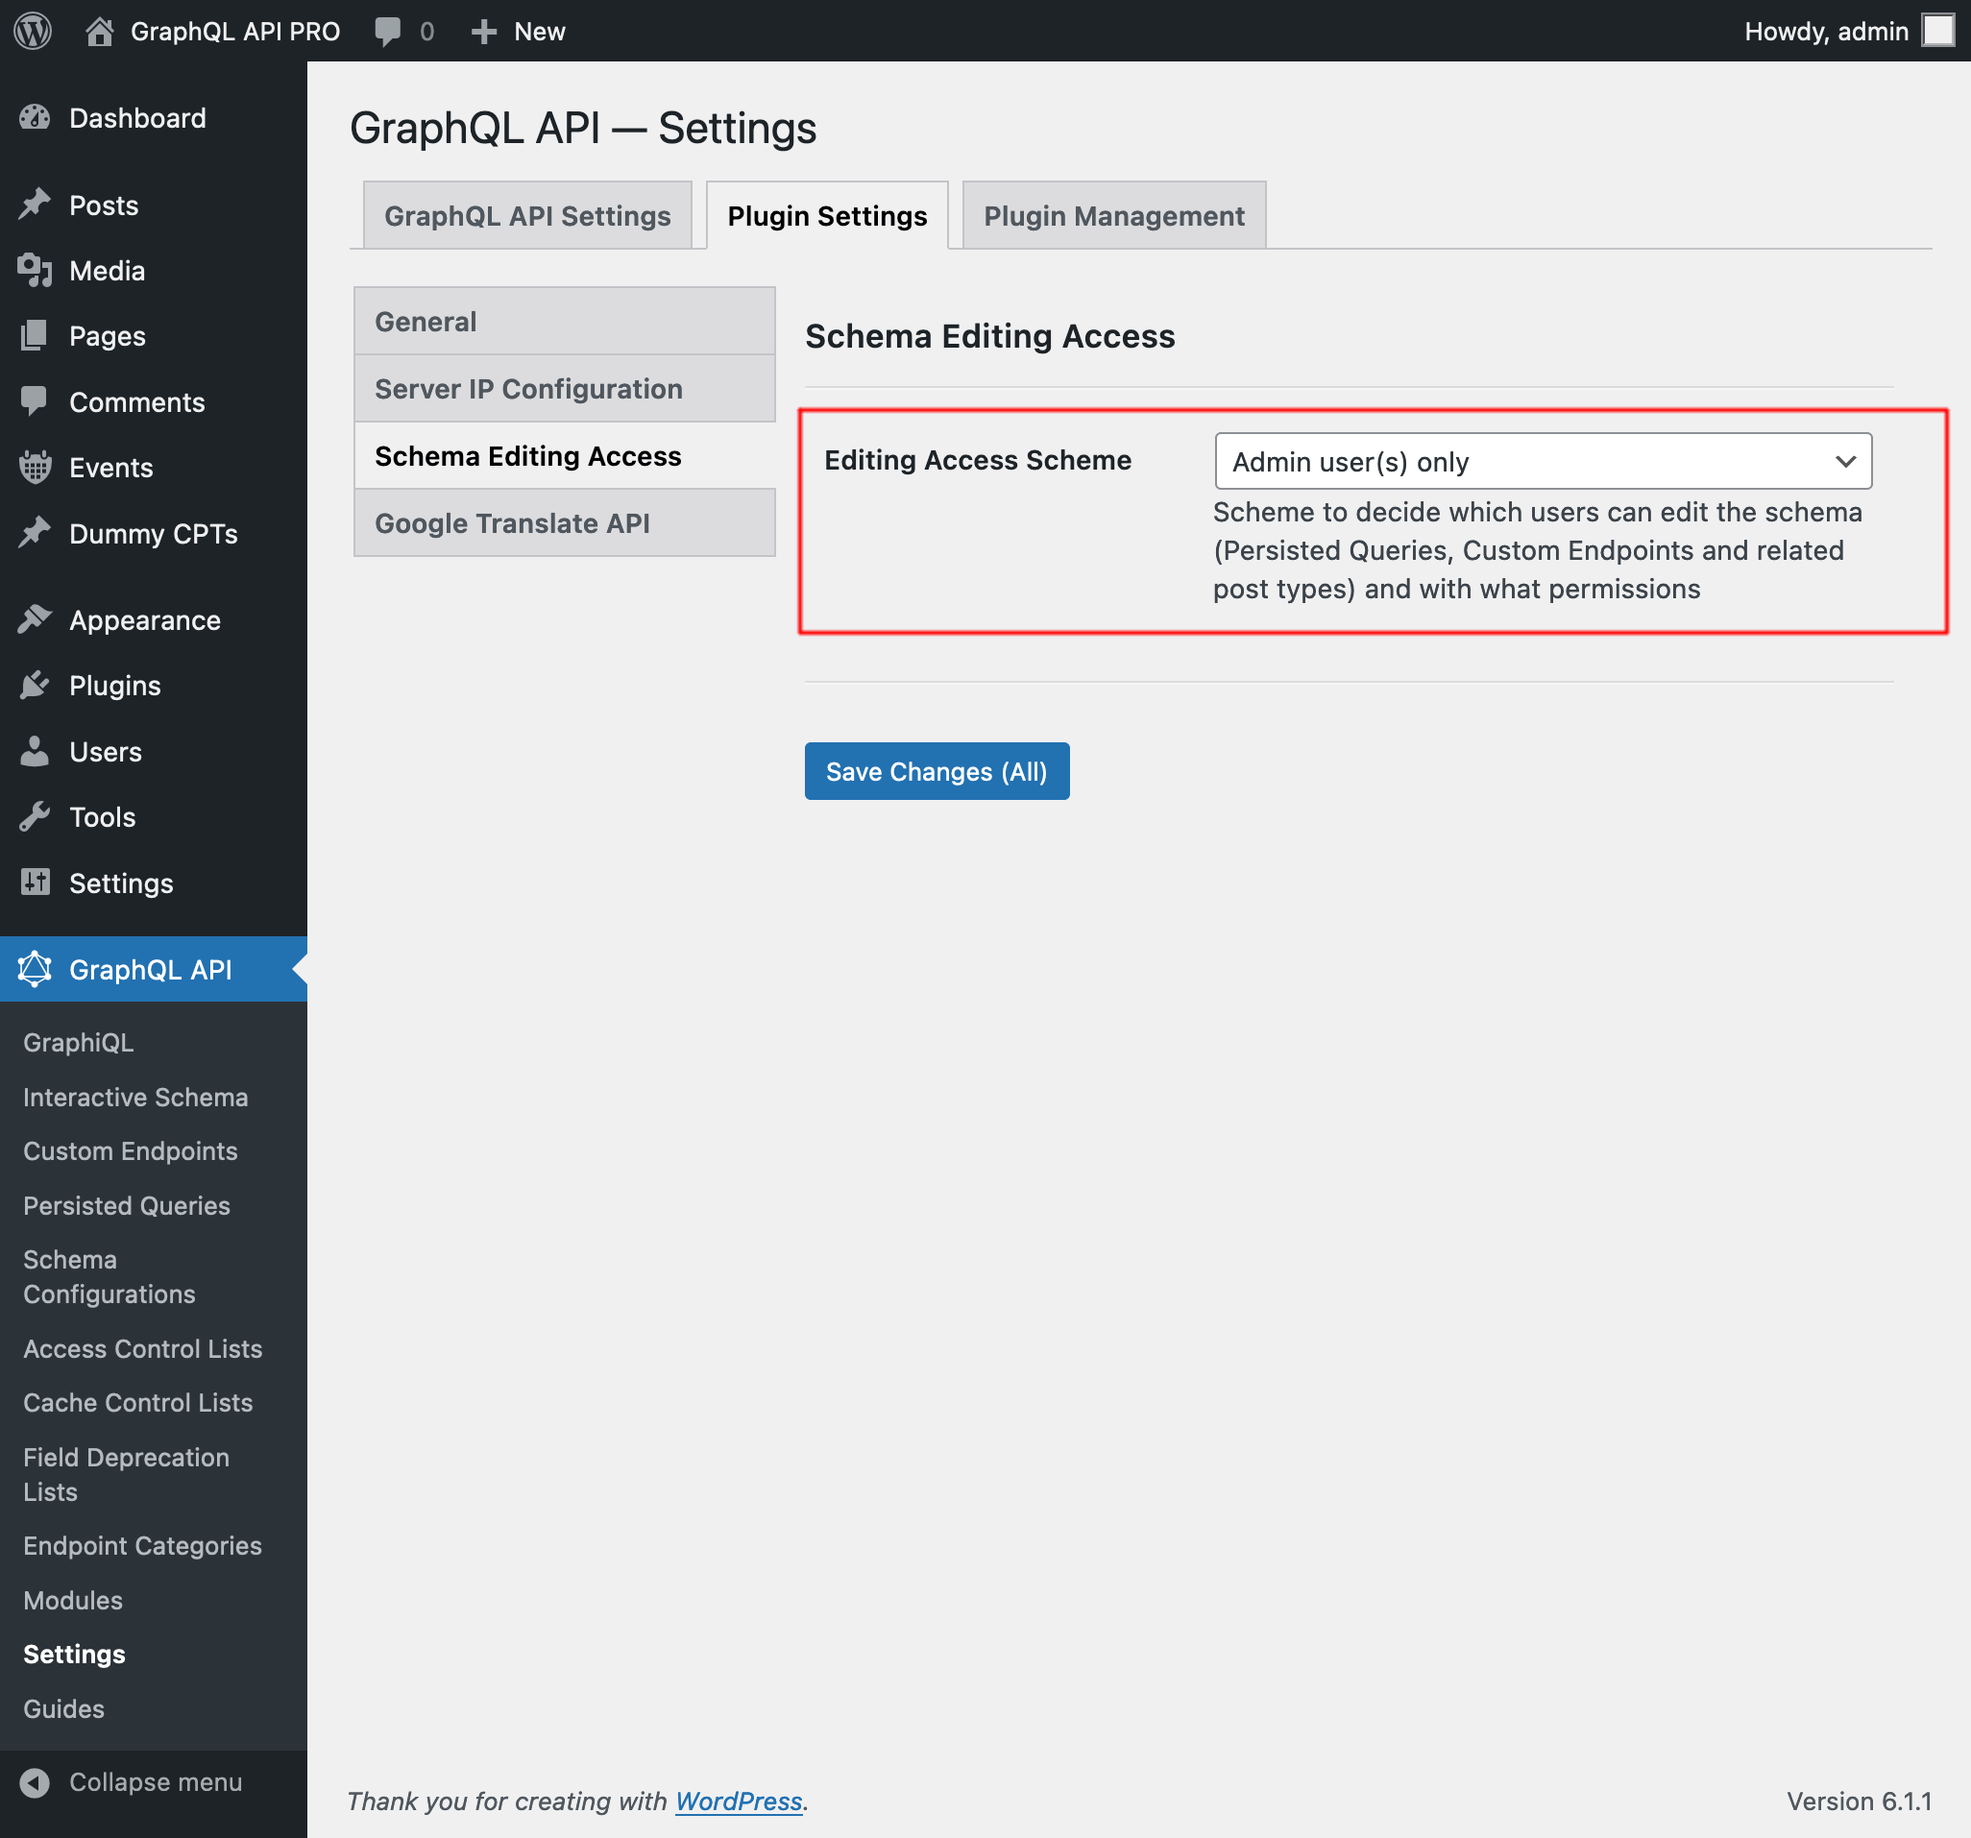
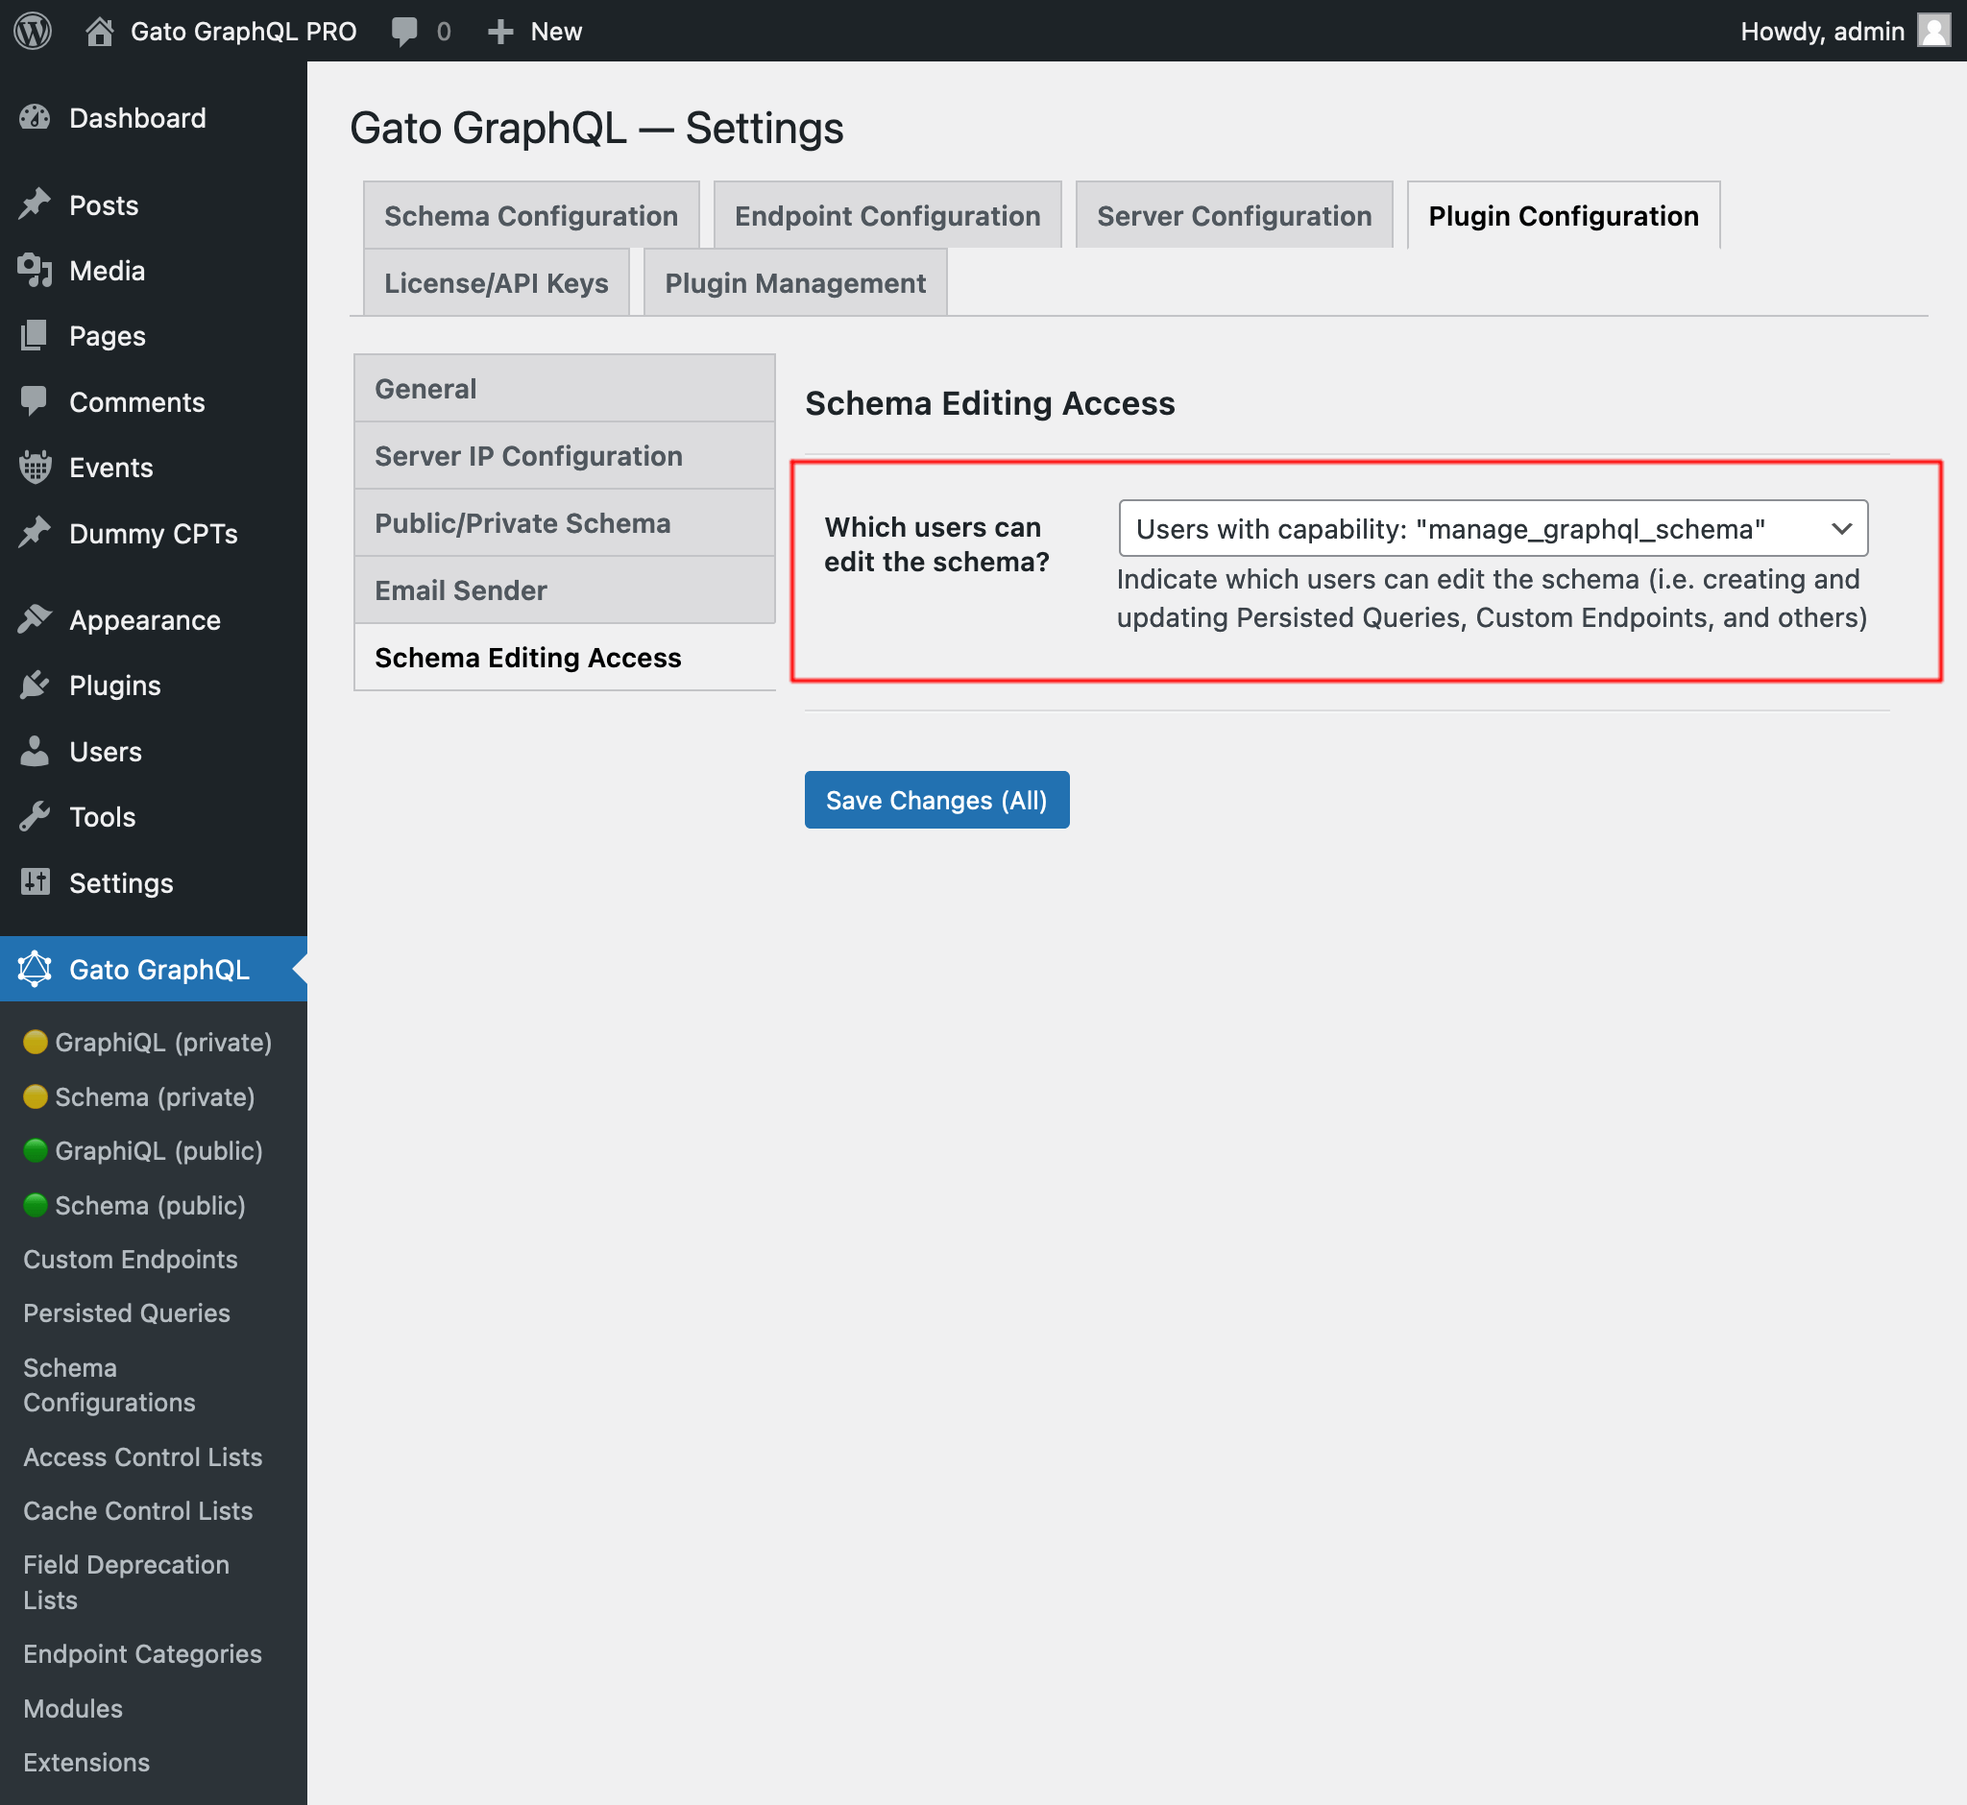
replaced pics for schema editing access

diff --git a/extensions/schema-editing-access/docs/modules/schema-editing-access/en.md b/extensions/schema-editing-access/docs/modules/schema-editing-access/en.md
@@ -35,7 +35,11 @@ The appropriate configuration must be selected from the dropdown in the "Plugin 
 - `Users with any role: "administrator", "editor"`
 - `Users with any role: "administrator", "editor", "author"`
 
+<div class="img-width-1024" markdown=1>
+
 ![Configuring the schema editing access in the Settings](../../images/settings-schema-editing-access.png "Configuring the schema editing access in the Settings")
+
+</div>
 
 ## Bundles including extension
 
